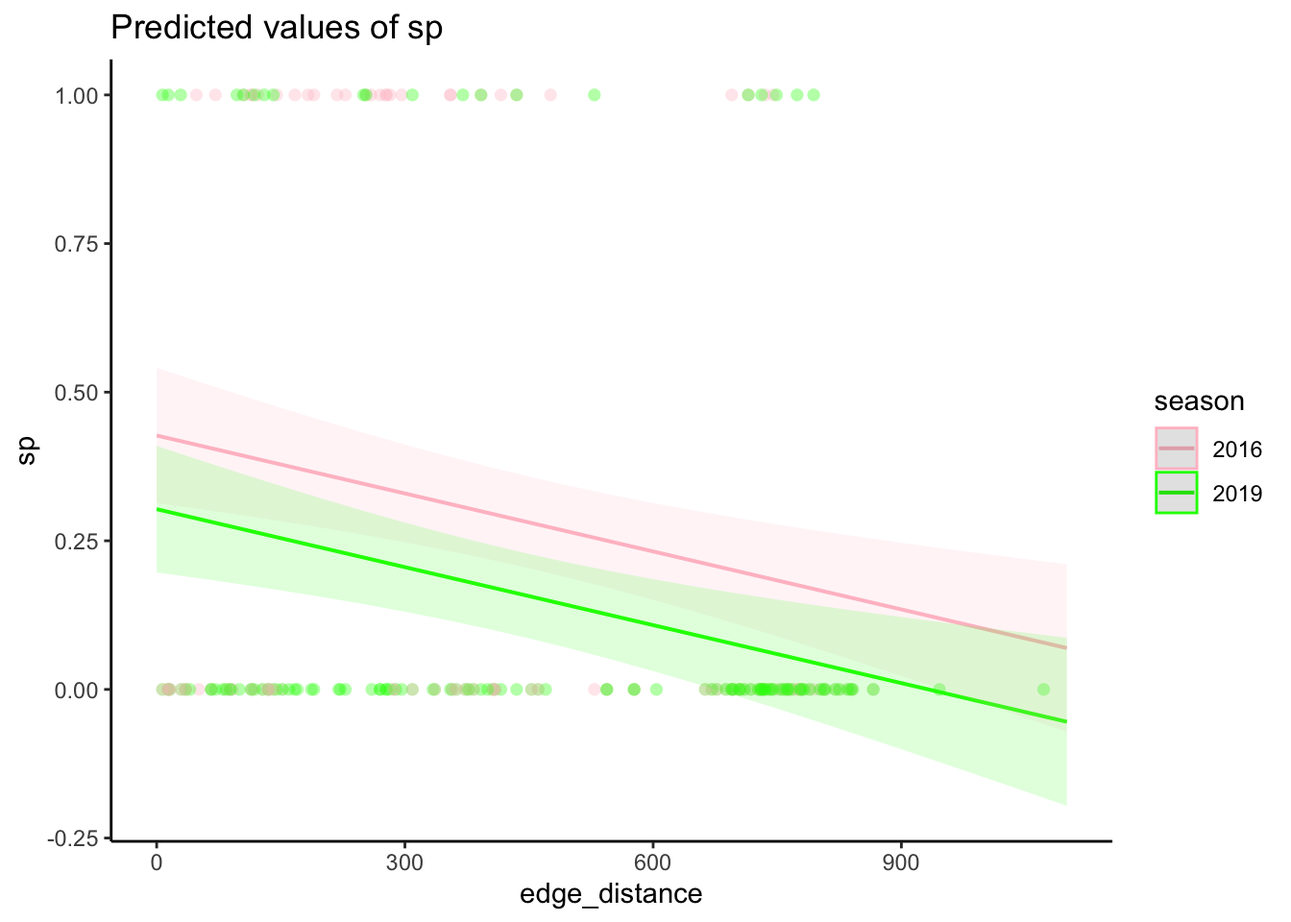
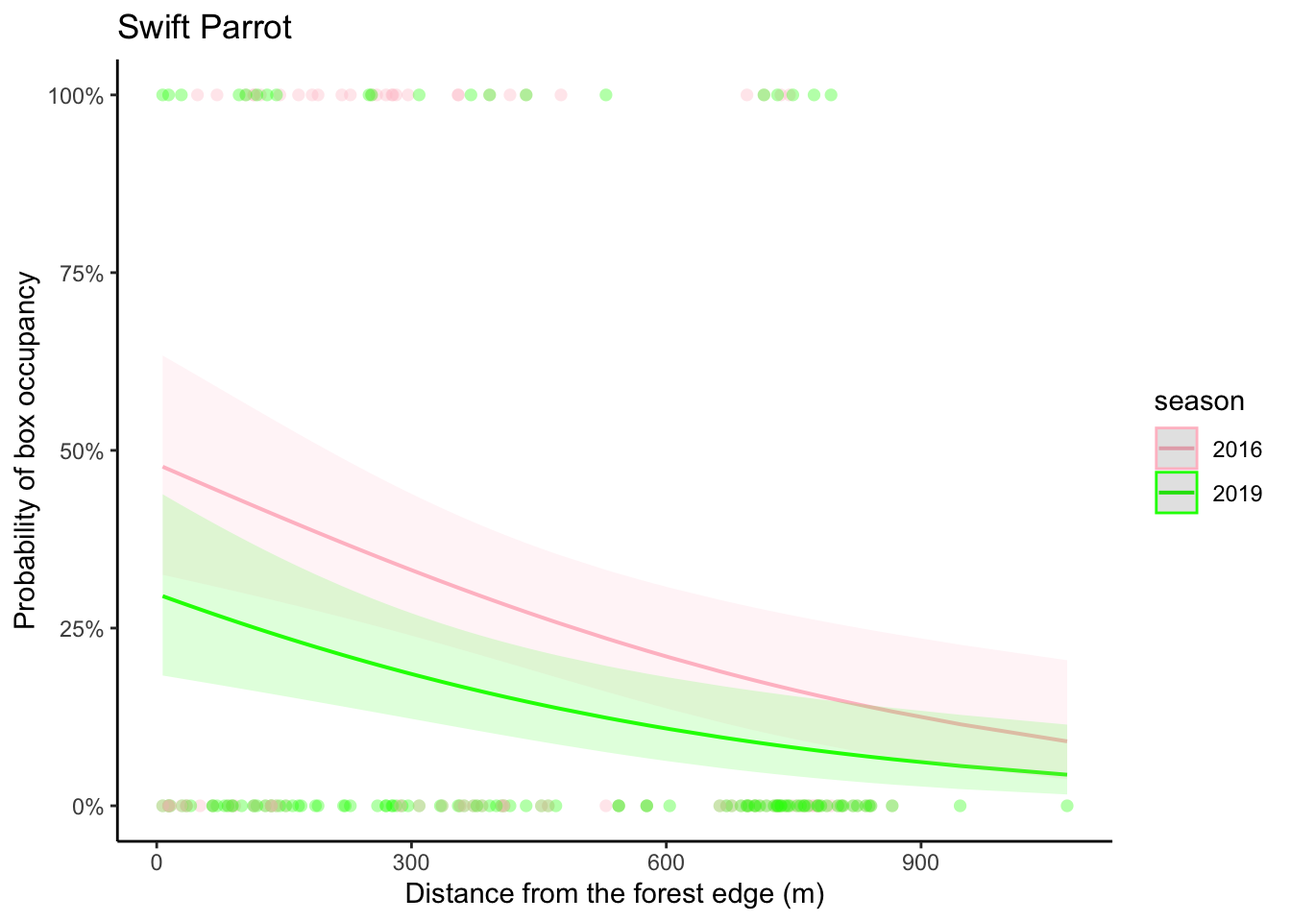
writing caption for figure

diff --git a/code/final.html b/code/final.html
@@ -132,8 +132,9 @@ window.Quarto = {
   <li><a href="#f.-check-the-diagnostics" id="toc-f.-check-the-diagnostics" class="nav-link" data-scroll-target="#f.-check-the-diagnostics">f.&nbsp;Check the diagnostics</a></li>
   <li><a href="#g.-select-the-best-model" id="toc-g.-select-the-best-model" class="nav-link" data-scroll-target="#g.-select-the-best-model">g. Select the best model</a></li>
   <li><a href="#h.-visualize-the-model-predictions" id="toc-h.-visualize-the-model-predictions" class="nav-link" data-scroll-target="#h.-visualize-the-model-predictions">h. Visualize the model predictions</a></li>
-  <li><a href="#i.-write-a-caption-for-your-figure" id="toc-i.-write-a-caption-for-your-figure" class="nav-link" data-scroll-target="#i.-write-a-caption-for-your-figure">i. Write a caption for your figure</a></li>
+  <li><a href="#i.-figure-caption" id="toc-i.-figure-caption" class="nav-link" data-scroll-target="#i.-figure-caption">i. Figure Caption</a></li>
   <li><a href="#j.-calculate-model-predictions" id="toc-j.-calculate-model-predictions" class="nav-link" data-scroll-target="#j.-calculate-model-predictions">j. Calculate model predictions</a></li>
+  <li><a href="#k.-interpret-results" id="toc-k.-interpret-results" class="nav-link" data-scroll-target="#k.-interpret-results">k. Interpret results</a></li>
   </ul></li>
   </ul>
 </nav>
@@ -187,10 +188,11 @@ window.Quarto = {
 <span id="cb1-10"><a href="#cb1-10" aria-hidden="true" tabindex="-1"></a><span class="fu">library</span>(ggeffects)</span>
 <span id="cb1-11"><a href="#cb1-11" aria-hidden="true" tabindex="-1"></a><span class="fu">library</span>(flextable)</span>
 <span id="cb1-12"><a href="#cb1-12" aria-hidden="true" tabindex="-1"></a><span class="fu">library</span>(gtsummary)</span>
-<span id="cb1-13"><a href="#cb1-13" aria-hidden="true" tabindex="-1"></a></span>
-<span id="cb1-14"><a href="#cb1-14" aria-hidden="true" tabindex="-1"></a><span class="co"># reading in data</span></span>
-<span id="cb1-15"><a href="#cb1-15" aria-hidden="true" tabindex="-1"></a>sst <span class="ot">&lt;-</span> <span class="fu">read.csv</span>(<span class="st">"data/SST_update2023.csv"</span>)</span>
-<span id="cb1-16"><a href="#cb1-16" aria-hidden="true" tabindex="-1"></a>nest_boxes <span class="ot">&lt;-</span> <span class="fu">read.csv</span>(<span class="st">"data/occdist.csv"</span>)</span></code><button title="Copy to Clipboard" class="code-copy-button"><i class="bi"></i></button></pre></div>
+<span id="cb1-13"><a href="#cb1-13" aria-hidden="true" tabindex="-1"></a><span class="fu">library</span>(DHARMa)</span>
+<span id="cb1-14"><a href="#cb1-14" aria-hidden="true" tabindex="-1"></a></span>
+<span id="cb1-15"><a href="#cb1-15" aria-hidden="true" tabindex="-1"></a><span class="co"># reading in data</span></span>
+<span id="cb1-16"><a href="#cb1-16" aria-hidden="true" tabindex="-1"></a>sst <span class="ot">&lt;-</span> <span class="fu">read.csv</span>(<span class="st">"data/SST_update2023.csv"</span>)</span>
+<span id="cb1-17"><a href="#cb1-17" aria-hidden="true" tabindex="-1"></a>nest_boxes <span class="ot">&lt;-</span> <span class="fu">read.csv</span>(<span class="st">"data/occdist.csv"</span>)</span></code><button title="Copy to Clipboard" class="code-copy-button"><i class="bi"></i></button></pre></div>
 </div>
 </section>
 <section id="problem-1.-research-writing" class="level1">
@@ -232,11 +234,11 @@ window.Quarto = {
 <span id="cb2-16"><a href="#cb2-16" aria-hidden="true" tabindex="-1"></a><span class="fu">slice_sample</span>(sst_clean, <span class="at">n =</span> <span class="dv">5</span>)</span></code><button title="Copy to Clipboard" class="code-copy-button"><i class="bi"></i></button></pre></div>
 <div class="cell-output cell-output-stdout">
 <pre><code>  year month mean_monthly_sst
-1 2019   Feb         14.09430
-2 2018   May         13.61440
-3 2020   Oct         18.98581
-4 2023   Feb         13.04096
-5 2023   Jul         16.32913</code></pre>
+1 2023   May         14.32968
+2 2021   Apr         13.07302
+3 2023   Jun         15.97853
+4 2020   Oct         18.98581
+5 2021   Oct         16.57246</code></pre>
 </div>
 <div class="sourceCode cell-code" id="cb4"><pre class="sourceCode r code-with-copy"><code class="sourceCode r"><span id="cb4-1"><a href="#cb4-1" aria-hidden="true" tabindex="-1"></a><span class="co"># showing structure of data</span></span>
 <span id="cb4-2"><a href="#cb4-2" aria-hidden="true" tabindex="-1"></a><span class="fu">str</span>(sst_clean)</span></code><button title="Copy to Clipboard" class="code-copy-button"><i class="bi"></i></button></pre></div>
@@ -286,11 +288,6 @@ window.Quarto = {
 </section>
 <section id="problem-3.-data-analysis" class="level1">
 <h1>Problem 3. Data analysis</h1>
-<div class="cell">
-<div class="sourceCode cell-code" id="cb7"><pre class="sourceCode r code-with-copy"><code class="sourceCode r"><span id="cb7-1"><a href="#cb7-1" aria-hidden="true" tabindex="-1"></a>nest_boxes_clean <span class="ot">&lt;-</span> nest_boxes <span class="sc">|&gt;</span> </span>
-<span id="cb7-2"><a href="#cb7-2" aria-hidden="true" tabindex="-1"></a>  <span class="fu">clean_names</span>() <span class="sc">|&gt;</span> </span>
-<span id="cb7-3"><a href="#cb7-3" aria-hidden="true" tabindex="-1"></a>  <span class="fu">mutate</span>(<span class="at">season =</span> <span class="fu">as_factor</span>(season))</span></code><button title="Copy to Clipboard" class="code-copy-button"><i class="bi"></i></button></pre></div>
-</div>
 <section id="a.-response-variable" class="level3">
 <h3 class="anchored" data-anchor-id="a.-response-variable">a. Response variable</h3>
 <p>The response variable is sp, which stands for Swift Parrot. A 1 represents that the nest box is occupied by a Swift Parrot and the 0 represents that it is not occupied by that type of bird or is empty.</p>
@@ -345,20 +342,32 @@ window.Quarto = {
 <section id="e.-run-the-models" class="level3">
 <h3 class="anchored" data-anchor-id="e.-run-the-models">e. Run the models</h3>
 <div class="cell">
-<div class="sourceCode cell-code" id="cb8"><pre class="sourceCode r code-with-copy"><code class="sourceCode r"><span id="cb8-1"><a href="#cb8-1" aria-hidden="true" tabindex="-1"></a>model0 <span class="ot">&lt;-</span> <span class="fu">lm</span>(sp <span class="sc">~</span> <span class="dv">1</span>, <span class="at">data =</span> nest_boxes_clean)</span>
-<span id="cb8-2"><a href="#cb8-2" aria-hidden="true" tabindex="-1"></a>model1 <span class="ot">&lt;-</span> <span class="fu">lm</span>(sp <span class="sc">~</span> edge_distance <span class="sc">+</span> season, </span>
-<span id="cb8-3"><a href="#cb8-3" aria-hidden="true" tabindex="-1"></a>             <span class="at">data =</span> nest_boxes_clean)</span>
-<span id="cb8-4"><a href="#cb8-4" aria-hidden="true" tabindex="-1"></a>model2 <span class="ot">&lt;-</span> <span class="fu">lm</span>(sp <span class="sc">~</span> season,</span>
-<span id="cb8-5"><a href="#cb8-5" aria-hidden="true" tabindex="-1"></a>             <span class="at">data =</span> nest_boxes_clean)</span>
-<span id="cb8-6"><a href="#cb8-6" aria-hidden="true" tabindex="-1"></a>model3 <span class="ot">&lt;-</span> <span class="fu">lm</span>(sp <span class="sc">~</span> edge_distance,</span>
-<span id="cb8-7"><a href="#cb8-7" aria-hidden="true" tabindex="-1"></a>             <span class="at">data =</span> nest_boxes_clean)</span></code><button title="Copy to Clipboard" class="code-copy-button"><i class="bi"></i></button></pre></div>
+<div class="sourceCode cell-code" id="cb7"><pre class="sourceCode r code-with-copy"><code class="sourceCode r"><span id="cb7-1"><a href="#cb7-1" aria-hidden="true" tabindex="-1"></a><span class="co"># model 0: null model</span></span>
+<span id="cb7-2"><a href="#cb7-2" aria-hidden="true" tabindex="-1"></a>model0 <span class="ot">&lt;-</span> <span class="fu">glm</span>(sp <span class="sc">~</span> <span class="dv">1</span>, <span class="at">data =</span> nest_boxes_clean,</span>
+<span id="cb7-3"><a href="#cb7-3" aria-hidden="true" tabindex="-1"></a>              <span class="at">family =</span> <span class="st">"binomial"</span>)</span>
+<span id="cb7-4"><a href="#cb7-4" aria-hidden="true" tabindex="-1"></a></span>
+<span id="cb7-5"><a href="#cb7-5" aria-hidden="true" tabindex="-1"></a><span class="co"># model 1: all predictors (saturated)</span></span>
+<span id="cb7-6"><a href="#cb7-6" aria-hidden="true" tabindex="-1"></a>model1 <span class="ot">&lt;-</span> <span class="fu">glm</span>(sp <span class="sc">~</span> edge_distance <span class="sc">+</span> season, </span>
+<span id="cb7-7"><a href="#cb7-7" aria-hidden="true" tabindex="-1"></a>             <span class="at">data =</span> nest_boxes_clean,</span>
+<span id="cb7-8"><a href="#cb7-8" aria-hidden="true" tabindex="-1"></a>             <span class="at">family =</span> <span class="st">"binomial"</span>)</span>
+<span id="cb7-9"><a href="#cb7-9" aria-hidden="true" tabindex="-1"></a></span>
+<span id="cb7-10"><a href="#cb7-10" aria-hidden="true" tabindex="-1"></a><span class="co"># model 2: season</span></span>
+<span id="cb7-11"><a href="#cb7-11" aria-hidden="true" tabindex="-1"></a>model2 <span class="ot">&lt;-</span> <span class="fu">glm</span>(sp <span class="sc">~</span> season,</span>
+<span id="cb7-12"><a href="#cb7-12" aria-hidden="true" tabindex="-1"></a>             <span class="at">data =</span> nest_boxes_clean,</span>
+<span id="cb7-13"><a href="#cb7-13" aria-hidden="true" tabindex="-1"></a>             <span class="at">family =</span> <span class="st">"binomial"</span>)</span>
+<span id="cb7-14"><a href="#cb7-14" aria-hidden="true" tabindex="-1"></a></span>
+<span id="cb7-15"><a href="#cb7-15" aria-hidden="true" tabindex="-1"></a><span class="co"># model 3: distnace to forest edge</span></span>
+<span id="cb7-16"><a href="#cb7-16" aria-hidden="true" tabindex="-1"></a>model3 <span class="ot">&lt;-</span> <span class="fu">glm</span>(sp <span class="sc">~</span> edge_distance,</span>
+<span id="cb7-17"><a href="#cb7-17" aria-hidden="true" tabindex="-1"></a>             <span class="at">data =</span> nest_boxes_clean,</span>
+<span id="cb7-18"><a href="#cb7-18" aria-hidden="true" tabindex="-1"></a>             <span class="at">family =</span> <span class="st">"binomial"</span>)</span></code><button title="Copy to Clipboard" class="code-copy-button"><i class="bi"></i></button></pre></div>
 </div>
 </section>
 <section id="f.-check-the-diagnostics" class="level3">
 <h3 class="anchored" data-anchor-id="f.-check-the-diagnostics">f.&nbsp;Check the diagnostics</h3>
 <div class="cell">
-<div class="sourceCode cell-code" id="cb9"><pre class="sourceCode r code-with-copy"><code class="sourceCode r"><span id="cb9-1"><a href="#cb9-1" aria-hidden="true" tabindex="-1"></a><span class="fu">par</span>(<span class="at">mfrow =</span> <span class="fu">c</span>(<span class="dv">1</span>,<span class="dv">1</span>))</span>
-<span id="cb9-2"><a href="#cb9-2" aria-hidden="true" tabindex="-1"></a><span class="fu">plot</span>(model1)</span></code><button title="Copy to Clipboard" class="code-copy-button"><i class="bi"></i></button></pre></div>
+<div class="sourceCode cell-code" id="cb8"><pre class="sourceCode r code-with-copy"><code class="sourceCode r"><span id="cb8-1"><a href="#cb8-1" aria-hidden="true" tabindex="-1"></a><span class="fu">par</span>(<span class="at">mfrow =</span> <span class="fu">c</span>(<span class="dv">1</span>,<span class="dv">1</span>))</span>
+<span id="cb8-2"><a href="#cb8-2" aria-hidden="true" tabindex="-1"></a><span class="co"># plot for model 1</span></span>
+<span id="cb8-3"><a href="#cb8-3" aria-hidden="true" tabindex="-1"></a><span class="fu">plot</span>(<span class="fu">simulateResiduals</span>(model1))</span></code><button title="Copy to Clipboard" class="code-copy-button"><i class="bi"></i></button></pre></div>
 <div class="cell-output-display">
 <div>
 <figure class="figure">
@@ -366,12 +375,20 @@ window.Quarto = {
 </figure>
 </div>
 </div>
+<div class="sourceCode cell-code" id="cb9"><pre class="sourceCode r code-with-copy"><code class="sourceCode r"><span id="cb9-1"><a href="#cb9-1" aria-hidden="true" tabindex="-1"></a><span class="co"># plot for model 2</span></span>
+<span id="cb9-2"><a href="#cb9-2" aria-hidden="true" tabindex="-1"></a><span class="fu">plot</span>(<span class="fu">simulateResiduals</span>(model2))</span></code><button title="Copy to Clipboard" class="code-copy-button"><i class="bi"></i></button></pre></div>
 <div class="cell-output-display">
 <div>
 <figure class="figure">
 <p><img src="final_files/figure-html/unnamed-chunk-6-2.png" class="img-fluid figure-img" width="672"></p>
 </figure>
 </div>
+</div>
+<div class="sourceCode cell-code" id="cb10"><pre class="sourceCode r code-with-copy"><code class="sourceCode r"><span id="cb10-1"><a href="#cb10-1" aria-hidden="true" tabindex="-1"></a><span class="co"># plot for model 3</span></span>
+<span id="cb10-2"><a href="#cb10-2" aria-hidden="true" tabindex="-1"></a><span class="fu">plot</span>(<span class="fu">simulateResiduals</span>(model3))</span></code><button title="Copy to Clipboard" class="code-copy-button"><i class="bi"></i></button></pre></div>
+<div class="cell-output cell-output-stderr">
+<pre><code>Warning in newton(lsp = lsp, X = G$X, y = G$y, Eb = G$Eb, UrS = G$UrS, L = G$L,
+: Fitting terminated with step failure - check results carefully</code></pre>
 </div>
 <div class="cell-output-display">
 <div>
@@ -380,165 +397,99 @@ window.Quarto = {
 </figure>
 </div>
 </div>
-<div class="cell-output-display">
-<div>
-<figure class="figure">
-<p><img src="final_files/figure-html/unnamed-chunk-6-4.png" class="img-fluid figure-img" width="672"></p>
-</figure>
-</div>
-</div>
-<div class="sourceCode cell-code" id="cb10"><pre class="sourceCode r code-with-copy"><code class="sourceCode r"><span id="cb10-1"><a href="#cb10-1" aria-hidden="true" tabindex="-1"></a><span class="fu">plot</span>(model2)</span></code><button title="Copy to Clipboard" class="code-copy-button"><i class="bi"></i></button></pre></div>
-<div class="cell-output-display">
-<div>
-<figure class="figure">
-<p><img src="final_files/figure-html/unnamed-chunk-6-5.png" class="img-fluid figure-img" width="672"></p>
-</figure>
-</div>
-</div>
-<div class="cell-output-display">
-<div>
-<figure class="figure">
-<p><img src="final_files/figure-html/unnamed-chunk-6-6.png" class="img-fluid figure-img" width="672"></p>
-</figure>
-</div>
-</div>
-<div class="cell-output-display">
-<div>
-<figure class="figure">
-<p><img src="final_files/figure-html/unnamed-chunk-6-7.png" class="img-fluid figure-img" width="672"></p>
-</figure>
-</div>
-</div>
-<div class="cell-output-display">
-<div>
-<figure class="figure">
-<p><img src="final_files/figure-html/unnamed-chunk-6-8.png" class="img-fluid figure-img" width="672"></p>
-</figure>
-</div>
-</div>
-<div class="sourceCode cell-code" id="cb11"><pre class="sourceCode r code-with-copy"><code class="sourceCode r"><span id="cb11-1"><a href="#cb11-1" aria-hidden="true" tabindex="-1"></a><span class="fu">plot</span>(model3)</span></code><button title="Copy to Clipboard" class="code-copy-button"><i class="bi"></i></button></pre></div>
-<div class="cell-output-display">
-<div>
-<figure class="figure">
-<p><img src="final_files/figure-html/unnamed-chunk-6-9.png" class="img-fluid figure-img" width="672"></p>
-</figure>
-</div>
-</div>
-<div class="cell-output-display">
-<div>
-<figure class="figure">
-<p><img src="final_files/figure-html/unnamed-chunk-6-10.png" class="img-fluid figure-img" width="672"></p>
-</figure>
-</div>
-</div>
-<div class="cell-output-display">
-<div>
-<figure class="figure">
-<p><img src="final_files/figure-html/unnamed-chunk-6-11.png" class="img-fluid figure-img" width="672"></p>
-</figure>
-</div>
-</div>
-<div class="cell-output-display">
-<div>
-<figure class="figure">
-<p><img src="final_files/figure-html/unnamed-chunk-6-12.png" class="img-fluid figure-img" width="672"></p>
-</figure>
-</div>
-</div>
 </div>
 </section>
 <section id="g.-select-the-best-model" class="level3">
 <h3 class="anchored" data-anchor-id="g.-select-the-best-model">g. Select the best model</h3>
 <div class="cell">
-<div class="sourceCode cell-code" id="cb12"><pre class="sourceCode r code-with-copy"><code class="sourceCode r"><span id="cb12-1"><a href="#cb12-1" aria-hidden="true" tabindex="-1"></a><span class="fu">AICc</span>(model1,</span>
+<div class="sourceCode cell-code" id="cb12"><pre class="sourceCode r code-with-copy"><code class="sourceCode r"><span id="cb12-1"><a href="#cb12-1" aria-hidden="true" tabindex="-1"></a><span class="fu">AICc</span>(model1, <span class="co"># best model: season and edge_distance</span></span>
 <span id="cb12-2"><a href="#cb12-2" aria-hidden="true" tabindex="-1"></a>     model2,</span>
 <span id="cb12-3"><a href="#cb12-3" aria-hidden="true" tabindex="-1"></a>     model3) <span class="sc">|&gt;</span> </span>
-<span id="cb12-4"><a href="#cb12-4" aria-hidden="true" tabindex="-1"></a>  <span class="fu">arrange</span>(AICc)</span></code><button title="Copy to Clipboard" class="code-copy-button"><i class="bi"></i></button></pre></div>
+<span id="cb12-4"><a href="#cb12-4" aria-hidden="true" tabindex="-1"></a>  <span class="co"># arranging output in descending order of AIC</span></span>
+<span id="cb12-5"><a href="#cb12-5" aria-hidden="true" tabindex="-1"></a>  <span class="fu">arrange</span>(AICc)</span></code><button title="Copy to Clipboard" class="code-copy-button"><i class="bi"></i></button></pre></div>
 <div class="cell-output cell-output-stdout">
 <pre><code>       df     AICc
-model1  4 232.5485
-model3  3 235.9030
-model2  3 242.5425</code></pre>
+model1  3 226.3133
+model3  2 229.6716
+model2  2 236.3744</code></pre>
 </div>
-<div class="sourceCode cell-code" id="cb14"><pre class="sourceCode r code-with-copy"><code class="sourceCode r"><span id="cb14-1"><a href="#cb14-1" aria-hidden="true" tabindex="-1"></a><span class="fu">summary</span>(model1)</span></code><button title="Copy to Clipboard" class="code-copy-button"><i class="bi"></i></button></pre></div>
+<div class="sourceCode cell-code" id="cb14"><pre class="sourceCode r code-with-copy"><code class="sourceCode r"><span id="cb14-1"><a href="#cb14-1" aria-hidden="true" tabindex="-1"></a><span class="co"># summary of model 1</span></span>
+<span id="cb14-2"><a href="#cb14-2" aria-hidden="true" tabindex="-1"></a><span class="fu">summary</span>(model1)</span></code><button title="Copy to Clipboard" class="code-copy-button"><i class="bi"></i></button></pre></div>
 <div class="cell-output cell-output-stdout">
 <pre><code>
 Call:
-lm(formula = sp ~ edge_distance + season, data = nest_boxes_clean)
-
-Residuals:
-     Min       1Q   Median       3Q      Max 
--0.42487 -0.25250 -0.17317 -0.03858  0.95492 
+glm(formula = sp ~ edge_distance + season, family = "binomial", 
+    data = nest_boxes_clean)
 
 Coefficients:
-                Estimate Std. Error t value Pr(&gt;|t|)    
-(Intercept)    4.271e-01  5.772e-02   7.401 2.71e-12 ***
-edge_distance -3.251e-04  9.297e-05  -3.497 0.000567 ***
-season2019    -1.239e-01  5.323e-02  -2.328 0.020801 *  
+                Estimate Std. Error z value Pr(&gt;|z|)    
+(Intercept)   -0.0774902  0.3293209  -0.235 0.813974    
+edge_distance -0.0020782  0.0006226  -3.338 0.000843 ***
+season2019    -0.7791985  0.3390296  -2.298 0.021544 *  
 ---
 Signif. codes:  0 '***' 0.001 '**' 0.01 '*' 0.05 '.' 0.1 ' ' 1
 
-Residual standard error: 0.3993 on 224 degrees of freedom
-Multiple R-squared:  0.07056,   Adjusted R-squared:  0.06226 
-F-statistic: 8.503 on 2 and 224 DF,  p-value: 0.0002759</code></pre>
+(Dispersion parameter for binomial family taken to be 1)
+
+    Null deviance: 236.81  on 226  degrees of freedom
+Residual deviance: 220.21  on 224  degrees of freedom
+AIC: 226.21
+
+Number of Fisher Scoring iterations: 4</code></pre>
 </div>
 </div>
-<p>The best model that predicts Swift Parrot presence in nest boxes as determined by Akaike’s Information Criterion (AIC) includes season and distance to the forest edge (F(2, 224) = 8.5, p &lt; 0.001, <span class="math inline">\(\alpha\)</span> = 0.05)</p>
+<p>The best model that predicts Swift Parrot presence in nest boxes as determined by Akaike’s Information Criterion (AIC) includes season and distance to the forest edge.</p>
 </section>
 <section id="h.-visualize-the-model-predictions" class="level3">
 <h3 class="anchored" data-anchor-id="h.-visualize-the-model-predictions">h. Visualize the model predictions</h3>
 <div class="cell">
-<div class="sourceCode cell-code" id="cb16"><pre class="sourceCode r code-with-copy"><code class="sourceCode r"><span id="cb16-1"><a href="#cb16-1" aria-hidden="true" tabindex="-1"></a><span class="fu">ggpredict</span>(model1,</span>
-<span id="cb16-2"><a href="#cb16-2" aria-hidden="true" tabindex="-1"></a>          <span class="at">terms =</span> <span class="fu">c</span>(<span class="st">"edge_distance"</span>,</span>
+<div class="sourceCode cell-code" id="cb16"><pre class="sourceCode r code-with-copy"><code class="sourceCode r"><span id="cb16-1"><a href="#cb16-1" aria-hidden="true" tabindex="-1"></a>mod_pre <span class="ot">&lt;-</span> <span class="fu">ggpredict</span>(model1, <span class="co"># model object</span></span>
+<span id="cb16-2"><a href="#cb16-2" aria-hidden="true" tabindex="-1"></a>          <span class="at">terms =</span> <span class="fu">c</span>(<span class="st">"edge_distance [all]"</span>, <span class="co"># predictors</span></span>
 <span id="cb16-3"><a href="#cb16-3" aria-hidden="true" tabindex="-1"></a>                    <span class="st">"season"</span>)) <span class="sc">|&gt;</span> </span>
-<span id="cb16-4"><a href="#cb16-4" aria-hidden="true" tabindex="-1"></a>  <span class="fu">plot</span>(<span class="at">colors =</span> <span class="fu">c</span>(<span class="st">"pink"</span>, <span class="st">"green"</span>),</span>
-<span id="cb16-5"><a href="#cb16-5" aria-hidden="true" tabindex="-1"></a>       <span class="at">show_data =</span> <span class="cn">TRUE</span>) <span class="sc">+</span></span>
-<span id="cb16-6"><a href="#cb16-6" aria-hidden="true" tabindex="-1"></a>  <span class="fu">theme_classic</span>() <span class="sc">+</span></span>
-<span id="cb16-7"><a href="#cb16-7" aria-hidden="true" tabindex="-1"></a>  <span class="fu">labs</span>(<span class="at">title =</span> <span class="st">"Swift Parrot"</span>,</span>
-<span id="cb16-8"><a href="#cb16-8" aria-hidden="true" tabindex="-1"></a>       <span class="at">x =</span> <span class="st">"Distance from the forest edge (m)"</span>,</span>
-<span id="cb16-9"><a href="#cb16-9" aria-hidden="true" tabindex="-1"></a>       <span class="at">y =</span> <span class="st">"Probability of box occupancy"</span>) <span class="sc">|&gt;</span> </span>
-<span id="cb16-10"><a href="#cb16-10" aria-hidden="true" tabindex="-1"></a>  ggeffects<span class="sc">::</span><span class="fu">ggpredict</span>()</span></code><button title="Copy to Clipboard" class="code-copy-button"><i class="bi"></i></button></pre></div>
+<span id="cb16-4"><a href="#cb16-4" aria-hidden="true" tabindex="-1"></a>  <span class="co"># setting custom colors</span></span>
+<span id="cb16-5"><a href="#cb16-5" aria-hidden="true" tabindex="-1"></a>  <span class="fu">plot</span>(<span class="at">colors =</span> <span class="fu">c</span>(<span class="st">"pink"</span>, <span class="st">"green"</span>),</span>
+<span id="cb16-6"><a href="#cb16-6" aria-hidden="true" tabindex="-1"></a>       <span class="at">show_data =</span> <span class="cn">TRUE</span>) <span class="sc">+</span></span>
+<span id="cb16-7"><a href="#cb16-7" aria-hidden="true" tabindex="-1"></a>  <span class="co"># cahnging the theme</span></span>
+<span id="cb16-8"><a href="#cb16-8" aria-hidden="true" tabindex="-1"></a>  <span class="fu">theme_classic</span>() <span class="sc">+</span></span>
+<span id="cb16-9"><a href="#cb16-9" aria-hidden="true" tabindex="-1"></a>  <span class="co"># changing the title and axis labels</span></span>
+<span id="cb16-10"><a href="#cb16-10" aria-hidden="true" tabindex="-1"></a>  <span class="fu">labs</span>(<span class="at">title =</span> <span class="st">"Swift Parrot"</span>,</span>
+<span id="cb16-11"><a href="#cb16-11" aria-hidden="true" tabindex="-1"></a>       <span class="at">x =</span> <span class="st">"Distance from the forest edge (m)"</span>,</span>
+<span id="cb16-12"><a href="#cb16-12" aria-hidden="true" tabindex="-1"></a>       <span class="at">y =</span> <span class="st">"Probability of box occupancy"</span>)</span></code><button title="Copy to Clipboard" class="code-copy-button"><i class="bi"></i></button></pre></div>
 <div class="cell-output cell-output-stderr">
 <pre><code>Data points may overlap. Use the `jitter` argument to add some amount of
   random variation to the location of data points and avoid overplotting.</code></pre>
 </div>
-<div class="cell-output cell-output-stderr">
-<pre><code>Warning: Could not access model information.</code></pre>
-</div>
-<div class="cell-output-display">
-<div>
-<figure class="figure">
-<p><img src="final_files/figure-html/unnamed-chunk-8-1.png" class="img-fluid figure-img" width="672"></p>
-</figure>
-</div>
-</div>
 </div>
 </section>
-<section id="i.-write-a-caption-for-your-figure" class="level3">
-<h3 class="anchored" data-anchor-id="i.-write-a-caption-for-your-figure">i. Write a caption for your figure</h3>
+<section id="i.-figure-caption" class="level3">
+<h3 class="anchored" data-anchor-id="i.-figure-caption">i. Figure Caption</h3>
+<p><strong>Figure 1. Swift Parrot nest box occupancy tends to be higher closer to the forest and in the breeding season of 2016.</strong> Points represent observations of nest box occupancy for Swift Parrots (n = 227). Lines represent model predictions (generalized linear regression) for the occupancy of a nest box by a Swift Parrot as predicted by distance from the forest edge (m) and breeding season, which is represented by color (pink: 2016, green: 2019). The ribbon around the lines represent a 95% confidence interval. Data source: Stojanovic, Dejan et al.&nbsp;(2021). Do nest boxes breed the target species or its competitors? A case study of a critically endangered bird [Dataset]. <em>Dryad</em>. <a href="https://doi.org/10.5061/dryad.83bk3j9sb" class="uri">https://doi.org/10.5061/dryad.83bk3j9sb</a>. Accessed June 2025.</p>
 </section>
 <section id="j.-calculate-model-predictions" class="level3">
 <h3 class="anchored" data-anchor-id="j.-calculate-model-predictions">j. Calculate model predictions</h3>
 <div class="cell">
-<div class="sourceCode cell-code" id="cb19"><pre class="sourceCode r code-with-copy"><code class="sourceCode r"><span id="cb19-1"><a href="#cb19-1" aria-hidden="true" tabindex="-1"></a><span class="fu">print</span>(ggeffects<span class="sc">::</span><span class="fu">ggpredict</span>(model1, <span class="at">terms =</span> <span class="fu">c</span>(<span class="st">"edge_distance [0, 900]"</span>, <span class="st">"season"</span>)))</span></code><button title="Copy to Clipboard" class="code-copy-button"><i class="bi"></i></button></pre></div>
+<div class="sourceCode cell-code" id="cb18"><pre class="sourceCode r code-with-copy"><code class="sourceCode r"><span id="cb18-1"><a href="#cb18-1" aria-hidden="true" tabindex="-1"></a><span class="fu">print</span>(ggeffects<span class="sc">::</span><span class="fu">ggpredict</span>(model1, <span class="at">terms =</span> <span class="fu">c</span>(<span class="st">"edge_distance [0, 900]"</span>, <span class="st">"season"</span>)))</span></code><button title="Copy to Clipboard" class="code-copy-button"><i class="bi"></i></button></pre></div>
 <div class="cell-output cell-output-stdout">
-<pre><code># Predicted values of sp
+<pre><code># Predicted probabilities of sp
 
 season: 2016
 
 edge_distance | Predicted |     95% CI
 --------------------------------------
-            0 |      0.43 | 0.31, 0.54
-          900 |      0.13 | 0.02, 0.25
+            0 |      0.48 | 0.33, 0.64
+          900 |      0.12 | 0.06, 0.24
 
 season: 2019
 
-edge_distance | Predicted |      95% CI
----------------------------------------
-            0 |      0.30 |  0.20, 0.41
-          900 |      0.01 | -0.10, 0.12</code></pre>
+edge_distance | Predicted |     95% CI
+--------------------------------------
+            0 |      0.30 | 0.18, 0.44
+          900 |      0.06 | 0.03, 0.13</code></pre>
 </div>
 </div>
+</section>
+<section id="k.-interpret-results" class="level3">
+<h3 class="anchored" data-anchor-id="k.-interpret-results">k. Interpret results</h3>
 </section>
 </section>
 
